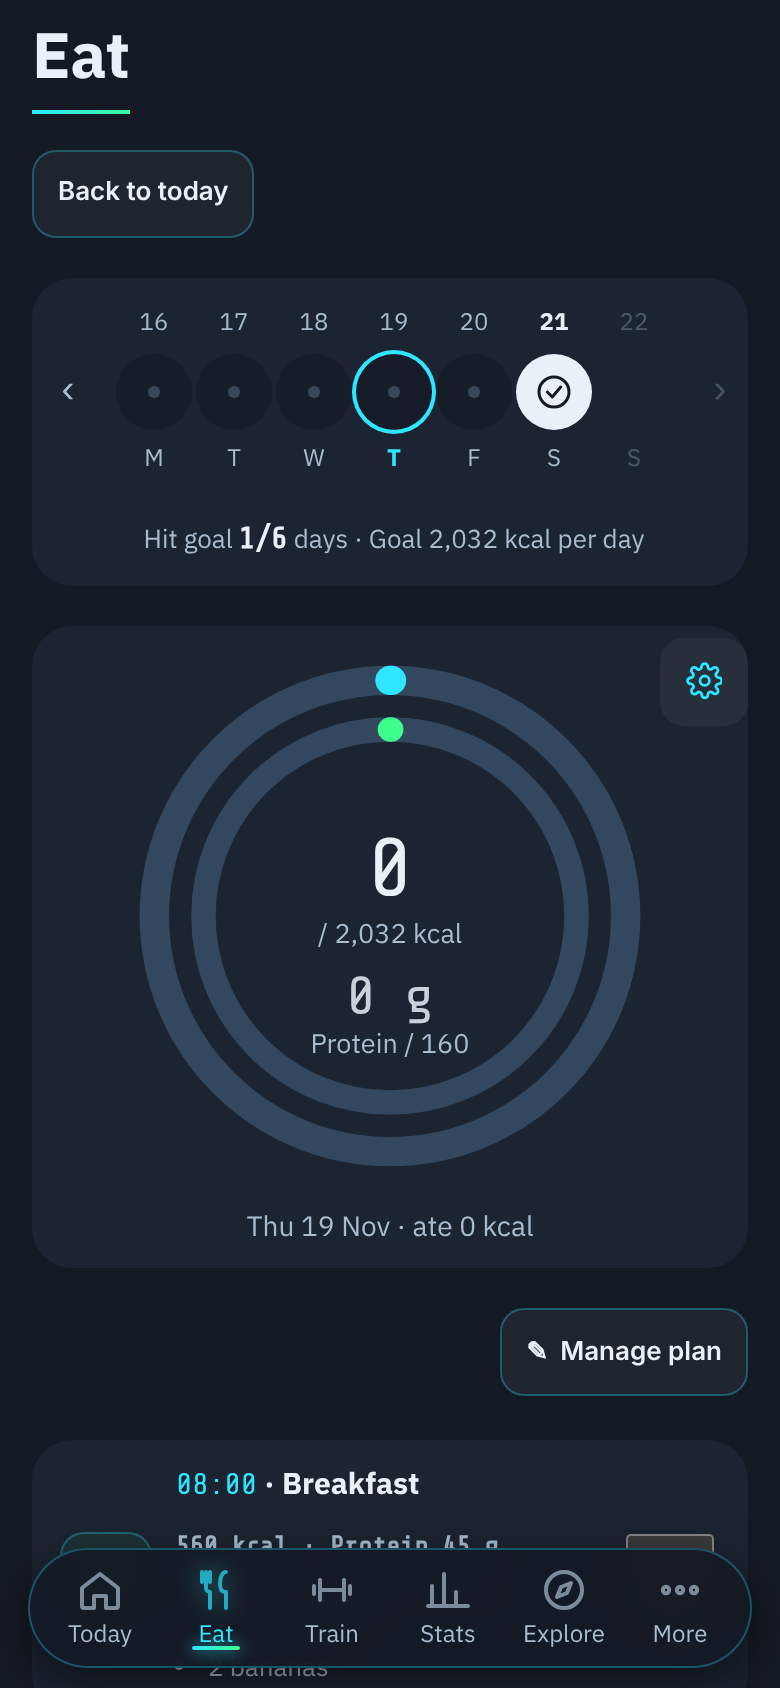
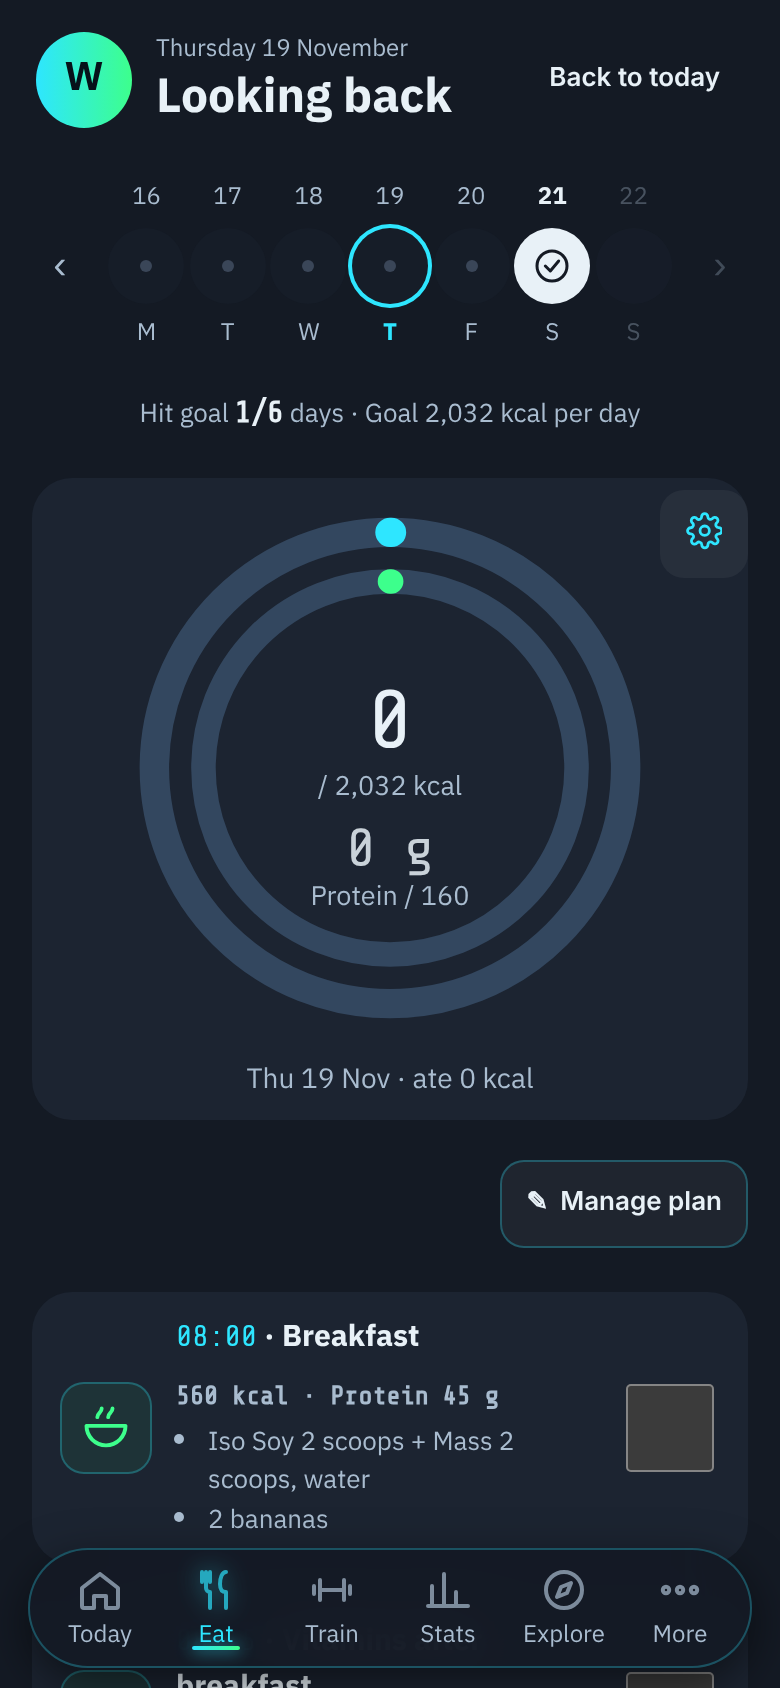
Eat: greeting header like Today (#143)
* docs: Today critique snapshot + redesign intent

Claude-Session: https://claude.ai/code/session_01TA1QFnqgBxBRFsiXemJ9Lg

* chore: ignore impeccable live-server state

Claude-Session: https://claude.ai/code/session_01TA1QFnqgBxBRFsiXemJ9Lg

* Today: plan first, one start button, inline meal tick, folded recovery

Claude-Session: https://claude.ai/code/session_01TA1QFnqgBxBRFsiXemJ9Lg

* docs: merge PR automatically once npm test passes

Claude-Session: https://claude.ai/code/session_01TA1QFnqgBxBRFsiXemJ9Lg

* docs: no OK wait between steps

Claude-Session: https://claude.ai/code/session_01TA1QFnqgBxBRFsiXemJ9Lg

* Today: recovery-aware start, undo on meal tick, progress bars, direct start

Claude-Session: https://claude.ai/code/session_01TA1QFnqgBxBRFsiXemJ9Lg

* Today: rested program leads, rest-day exit, inline meal cancel, over-target bar

Claude-Session: https://claude.ai/code/session_01TA1QFnqgBxBRFsiXemJ9Lg

* Today: body weight + 7-day change + weigh-in in the body card

Claude-Session: https://claude.ai/code/session_01TA1QFnqgBxBRFsiXemJ9Lg

* Today: body card shows weight, muscle mass and body fat

Claude-Session: https://claude.ai/code/session_01TA1QFnqgBxBRFsiXemJ9Lg

* Today: weigh-in opens the full body-log sheet

Claude-Session: https://claude.ai/code/session_01TA1QFnqgBxBRFsiXemJ9Lg

* Today: headline matches suggestion, inline cancel, blank weigh-in, fits above tab bar

Claude-Session: https://claude.ai/code/session_01TA1QFnqgBxBRFsiXemJ9Lg
[…]

diff --git a/public/index.html b/public/index.html
@@ -8,11 +8,11 @@
 <meta name="apple-mobile-web-app-status-bar-style" content="black-translucent">
 <meta name="apple-mobile-web-app-title" content="WeightGram">
 <link rel="manifest" href="/manifest.webmanifest">
-<link rel="apple-touch-icon" href="/apple-touch-icon.png?v=138564">
+<link rel="apple-touch-icon" href="/apple-touch-icon.png?v=138565">
 <title>WeightGram</title>
 <link rel="stylesheet" href="https://fonts.googleapis.com/css2?family=IBM+Plex+Sans+Thai:wght@400;500;700&family=IBM+Plex+Mono:wght@400;500&family=Share+Tech+Mono&display=swap">
 <style>:root{padding-top:env(safe-area-inset-top,0px);padding-bottom:env(safe-area-inset-bottom,0px)}*{-webkit-tap-highlight-color:transparent}body{margin:0;font-size:var(--t-sm);font-family:system-ui,sans-serif}img{max-width:100%}[hidden]{display:none!important}</style>
-<link rel="stylesheet" href="/css/app.css?v=138564">
+<link rel="stylesheet" href="/css/app.css?v=138565">
 </head><body>
 
 <div class="wrap">
@@ -277,37 +277,37 @@
   </div>
 </div>
 
-<script src="/js/core.js?v=138564"></script>
-<script src="/js/food.js?v=138564"></script>
-<script src="/js/locations.js?v=138564"></script>
-<script src="/js/programs.js?v=138564"></script>
-<script src="/js/run.js?v=138564"></script>
-<script src="/js/workout.js?v=138564"></script>
-<script src="/js/exercise-edit.js?v=138564"></script>
-<script src="/js/edit-tx.js?v=138564"></script>
-<script src="/js/exercise-library.js?v=138564"></script>
-<script src="/js/program-manager.js?v=138564"></script>
-<script src="/js/hero.js?v=138564"></script>
-<script src="/js/rest-timer.js?v=138564"></script>
-<script src="/js/auth.js?v=138564"></script>
-<script src="/js/push.js?v=138564"></script>
-<script src="/js/data-io.js?v=138564"></script>
-<script src="/js/sync.js?v=138564"></script>
-<script src="/js/muscle-map.js?v=138564"></script>
-<script src="/js/progress.js?v=138564"></script>
-<script src="/js/history-chart.js?v=138564"></script>
-<script src="/js/stats-extra.js?v=138564"></script>
-<script src="/js/meal-plan.js?v=138564"></script>
-<script src="/js/undo.js?v=138564"></script>
-<script src="/js/home.js?v=138564"></script>
-<script src="/js/share.js?v=138564"></script>
-<script src="/js/explore.js?v=138564"></script>
-<script src="/js/onboarding.js?v=138564"></script>
-<script src="/js/account.js?v=138564"></script>
-<script src="/js/share-card.js?v=138564"></script>
-<script src="/js/number-pad.js?v=138564"></script>
-<script src="/js/refresh.js?v=138564"></script>
-<script src="/js/app.js?v=138564"></script>
+<script src="/js/core.js?v=138565"></script>
+<script src="/js/food.js?v=138565"></script>
+<script src="/js/locations.js?v=138565"></script>
+<script src="/js/programs.js?v=138565"></script>
+<script src="/js/run.js?v=138565"></script>
+<script src="/js/workout.js?v=138565"></script>
+<script src="/js/exercise-edit.js?v=138565"></script>
+<script src="/js/edit-tx.js?v=138565"></script>
+<script src="/js/exercise-library.js?v=138565"></script>
+<script src="/js/program-manager.js?v=138565"></script>
+<script src="/js/hero.js?v=138565"></script>
+<script src="/js/rest-timer.js?v=138565"></script>
+<script src="/js/auth.js?v=138565"></script>
+<script src="/js/push.js?v=138565"></script>
+<script src="/js/data-io.js?v=138565"></script>
+<script src="/js/sync.js?v=138565"></script>
+<script src="/js/muscle-map.js?v=138565"></script>
+<script src="/js/progress.js?v=138565"></script>
+<script src="/js/history-chart.js?v=138565"></script>
+<script src="/js/stats-extra.js?v=138565"></script>
+<script src="/js/meal-plan.js?v=138565"></script>
+<script src="/js/undo.js?v=138565"></script>
+<script src="/js/home.js?v=138565"></script>
+<script src="/js/share.js?v=138565"></script>
+<script src="/js/explore.js?v=138565"></script>
+<script src="/js/onboarding.js?v=138565"></script>
+<script src="/js/account.js?v=138565"></script>
+<script src="/js/share-card.js?v=138565"></script>
+<script src="/js/number-pad.js?v=138565"></script>
+<script src="/js/refresh.js?v=138565"></script>
+<script src="/js/app.js?v=138565"></script>
 
 <div id="rec-wrap" class="stack" style="gap:10px" hidden><div class="rcf-head"><div class="sec-t" data-i="การฟื้นตัวของกล้ามเนื้อ">การฟื้นตัวของกล้ามเนื้อ</div><button class="btn sm" id="rec-cfg">⚙ <span data-i="ตั้งเวลาฟื้นตัว">ตั้งเวลาฟื้นตัว</span></button></div><div class="card" id="rec-body"></div></div>
 </body></html>

diff --git a/public/js/home.js b/public/js/home.js
@@ -145,7 +145,8 @@ renderEatCal=function(){const box=document.getElementById("eat-cal");if(!box)ret
   const st=ds=>ds>TODAY?"fut":dayKcal(ds)>=K_GOAL&&K_GOAL?"ok":ds<TODAY&&!dayKcal(ds)?"miss":"now";
   const past=full.filter(ds=>ds<TODAY||ds===TODAY&&dayKcal(ds)>0),hit=past.filter(ds=>dayKcal(ds)>=K_GOAL).length;
   const nar=ds=>new Date(ds+"T12:00:00").toLocaleDateString(LOC(),{weekday:"narrow"});
-  box.innerHTML=`<div class="hq-week"><button class="hq-wnav" data-wk="-7" aria-label="${t("สัปดาห์ก่อน")}">‹</button>${full.map(ds=>`<button class="hq-day ${st(ds)}${ds===DAY?" sel":""}${ds===TODAY?" today":""}" data-cd="${ds}" ${ds>TODAY?"disabled":""} aria-label="${thDate(ds,{weekday:"long",day:"numeric",month:"short"})}${dayKcal(ds)?" · "+dayKcal(ds)+" kcal":""}"><small>${new Date(ds+"T12:00:00").getDate()}</small><span class="hq-dot">${ds>TODAY?"":ring(ds)}</span><small>${nar(ds)}</small></button>`).join("")}<button class="hq-wnav" data-wk="7" aria-label="${t("สัปดาห์ถัดไป")}" ${full[6]>=TODAY?"disabled":""}>›</button></div>
+  const nameOf=(typeof PROFILE!=="undefined"&&PROFILE&&PROFILE.name)||(typeof ME!=="undefined"&&ME&&ME.name)||"";
+  box.innerHTML=`<div class="hq-hello"><span class="hq-av" aria-hidden="true">${esc((nameOf||"W").trim().charAt(0).toUpperCase())}</span><span class="hq-hi"><small>${thDate(DAY,{weekday:"long",day:"numeric",month:"long"})}</small><b>${DAY!==TODAY?t("ย้อนดูวันนั้น"):t("วันนี้กินอะไร")}</b></span>${DAY!==TODAY?`<button class="btn sm hq-back" data-backtoday>${t("กลับวันนี้")}</button>`:""}</div><div class="hq-week"><button class="hq-wnav" data-wk="-7" aria-label="${t("สัปดาห์ก่อน")}">‹</button>${full.map(ds=>`<button class="hq-day ${st(ds)}${ds===DAY?" sel":""}${ds===TODAY?" today":""}" data-cd="${ds}" ${ds>TODAY?"disabled":""} aria-label="${thDate(ds,{weekday:"long",day:"numeric",month:"short"})}${dayKcal(ds)?" · "+dayKcal(ds)+" kcal":""}"><small>${new Date(ds+"T12:00:00").getDate()}</small><span class="hq-dot">${ds>TODAY?"":ring(ds)}</span><small>${nar(ds)}</small></button>`).join("")}<button class="hq-wnav" data-wk="7" aria-label="${t("สัปดาห์ถัดไป")}" ${full[6]>=TODAY?"disabled":""}>›</button></div>
     <small class="hq-streak">${t("ถึงเป้า")} <b class="hq-num">${hit}/${past.length}</b> ${t("วัน_s").replace(/_s$/,"")} · ${t("เป้า")} ${K_GOAL.toLocaleString()} kcal ${t("ต่อวัน")}</small>`;
   box.querySelectorAll("[data-cd]").forEach(b=>b.addEventListener("click",()=>{const ds=b.dataset.cd;if(ds===DAY)return;DAY=ds;food[DAY]=food[DAY]||{done:{},tags:{}};try{draft.ex={};picked=false}catch(e){}renderAll()}));
   box.querySelectorAll("[data-wk]").forEach(b=>b.addEventListener("click",()=>{const d=new Date(DAY+"T12:00:00");d.setDate(d.getDate()+ +b.dataset.wk);let k=dkey(d);if(k>TODAY)k=TODAY;DAY=k;food[DAY]=food[DAY]||{done:{},tags:{}};renderAll()}))};

diff --git a/public/js/food.js b/public/js/food.js
@@ -58,7 +58,7 @@ function renderFoodHist(){
   if(all30.length>7){const more=document.createElement("button");more.className="btn ghost";more.textContent=fhAll?t("ย่อ"):`${t("ดูทั้งหมด")} (${all30.length})`;more.addEventListener("click",()=>{fhAll=!fhAll;renderFoodHist()});box.appendChild(more)}
 }
 function renderFood(){renderFoodHist();
-  {const v=document.getElementById("v-food"),b0=document.getElementById("eat-back");if(v){if(DAY!==TODAY&&!b0){const b=document.createElement("button");b.id="eat-back";b.className="btn sm hq-back";b.textContent=t("กลับวันนี้");b.addEventListener("click",()=>{DAY=TODAY;renderAll()});v.prepend(b)}else if(DAY===TODAY&&b0)b0.remove();else if(b0)b0.textContent=t("กลับวันนี้")}}
+  {const b0=document.getElementById("eat-back");if(b0)b0.remove()}
   document.querySelectorAll(".chip[data-k]").forEach(c=>c.setAttribute("aria-pressed",!!fs().tags[c.dataset.k]));
   const box=document.getElementById("meals");box.innerHTML="";
   const meals=mealList();

diff --git a/public/css/app.css b/public/css/app.css
@@ -1323,3 +1323,6 @@ body.on-food{background-image:none}
 #v-food #eat-cal{padding:10px 4px 12px!important}
 #v-food #eat-cal .hq-streak{display:block;text-align:center}
 #v-food .meal.late[data-flag]::after{background:#253245!important;color:var(--muted)!important;border-color:transparent!important}
+/* Eat header like Today: greeting row + strip, no card, no big title */
+body.on-food .wrap>header{display:none}
+#v-food #eat-cal{background:none!important;padding:0!important;border-radius:0}

diff --git a/docs/work/2026-11-21-eat-calm/plan.md b/docs/work/2026-11-21-eat-calm/plan.md
@@ -9,3 +9,6 @@
 - Eat calendar = Today round strip (✓ goal hit, faint dot = nothing logged, ring = % of kcal goal), summary "ถึงเป้า X/Y วัน · เป้า N kcal ต่อวัน"; smoke test reads .hq-day
 - ring numbers in the text colour (no neon cyan/green)
 - past-time meals: neutral grey "ยังไม่ติ๊ก" instead of orange "เลยเวลา"
+
+## Eat header like Today (device feedback)
+- avatar + date + "วันนี้กินอะไร" (past day: "ย้อนดูวันนั้น" + "กลับวันนี้"); no big "Eat" title, strip not in a card
